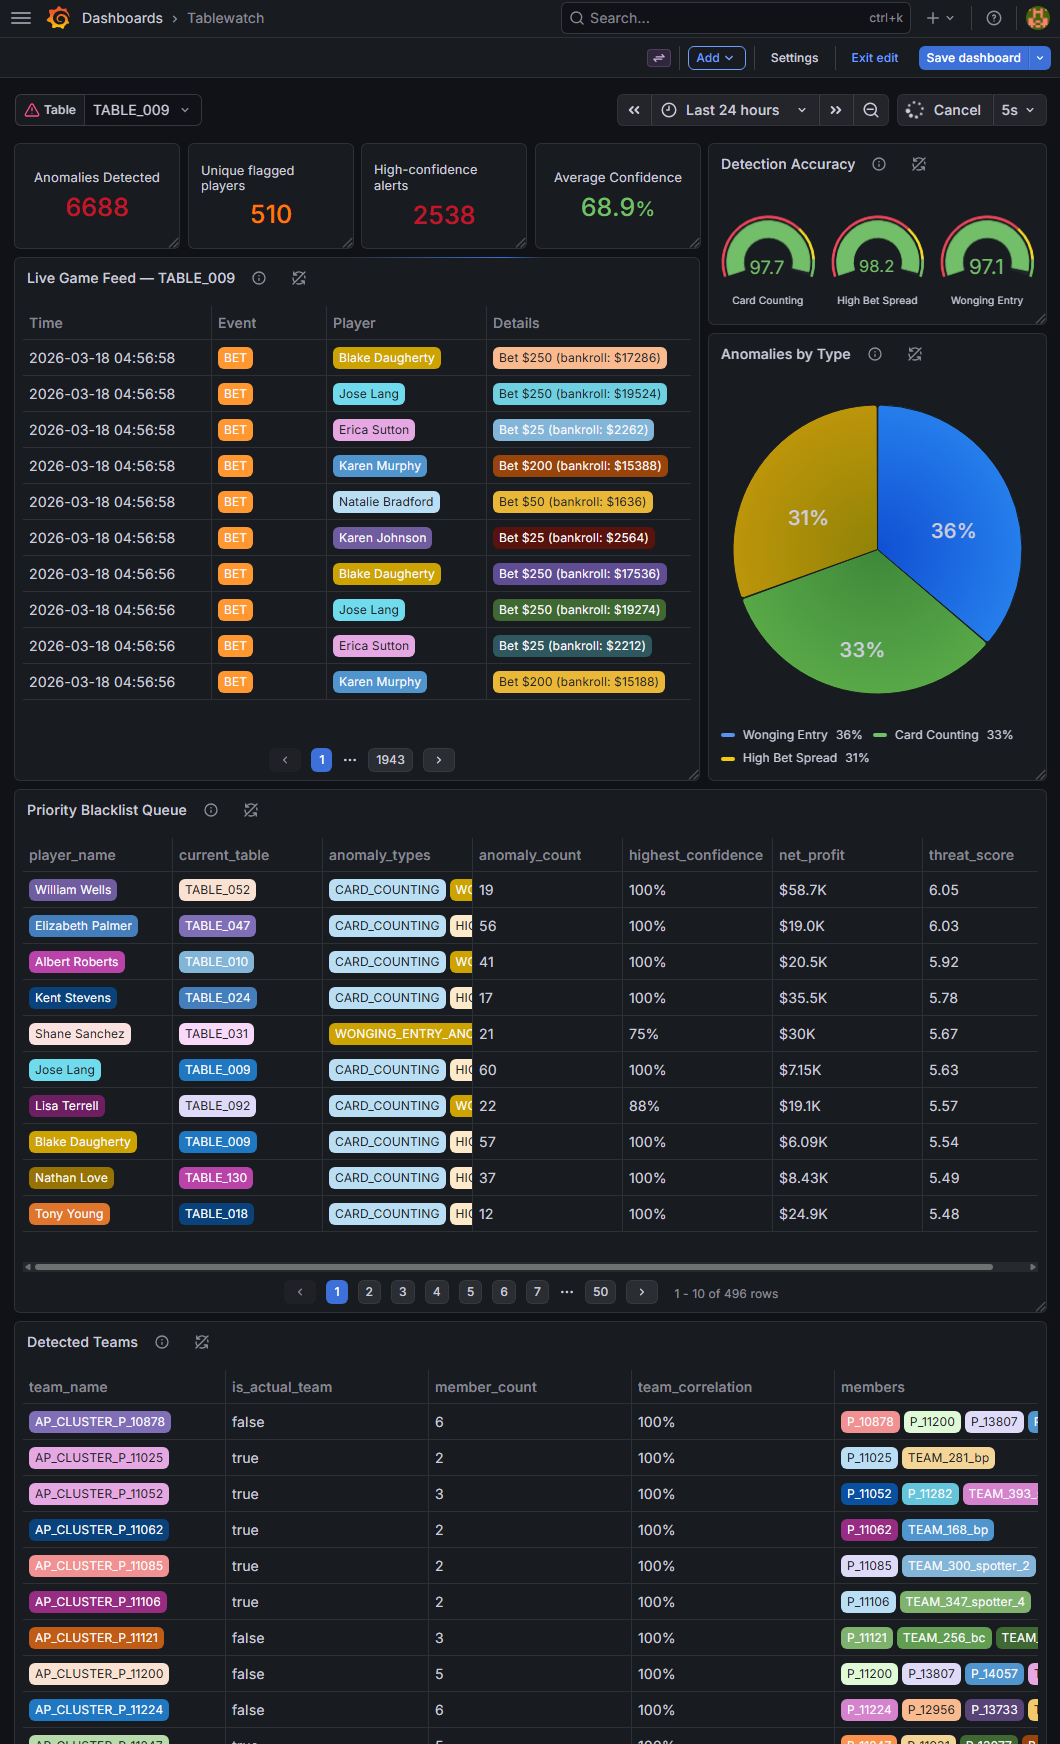
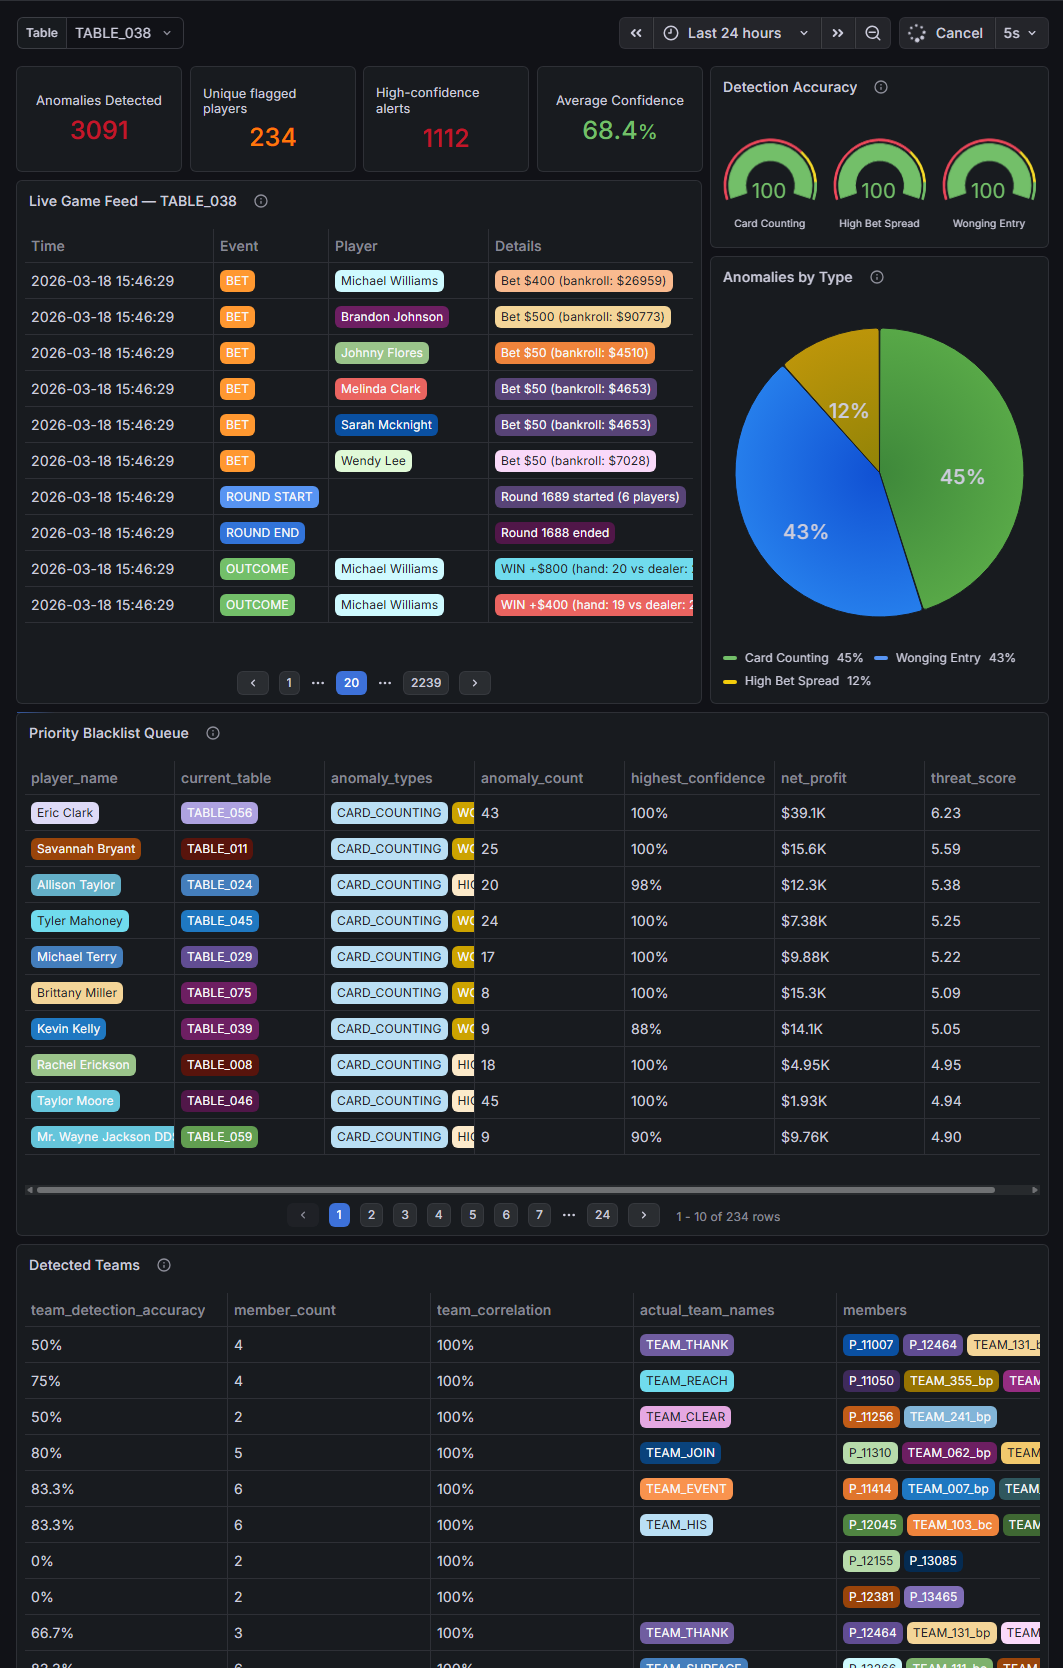
update grafana team detection and readme
updated grafana image with latest dashboard

save

diff --git a/README.md b/README.md
@@ -219,6 +219,8 @@ Individual anomaly detection catches card counters and wongers in isolation, but
 
 Because bet correlation between team members is unreliable (spotters bet flat, making their variance zero and Pearson correlation undefined), team detection instead uses **table co-presence of already-flagged players** as its signal. If two players have both been independently flagged for card counting or wonging, and they shared the same table in the same round on 10 or more occasions within the last 2 hours, they are clustered into a team. The cluster root is the lexicographically smallest player ID among all correlated pairs, ensuring each real-world team produces one stable row rather than one per pair.
 
+The algorithm however habitually groups both individual advantage players and teams together due to both discretely being flagged for Wonging and Card Counting behaviours, therefore the field team_detection_accuracy is computed based on the fraction of detected members as actual seeded team players.
+
 - Runs as a periodic Postgres job every 30 minutes rather than a Flink streaming job, since its inputs are already-computed anomalies in the database rather than raw Kafka events
 - `team_correlation` is a proxy score derived from average shared rounds (normalised to 50 rounds = 1.0) rather than a true statistical correlation, since the actual signal here is co-occurrence frequency
 - `ON CONFLICT DO UPDATE` ensures the team record is refreshed each run rather than duplicated
@@ -230,10 +232,14 @@ INSERT INTO detected_teams (
         detected_team_id,
         member_count,
         team_correlation,
+        team_detection_accuracy,
+        actual_team_ids,
+        actual_team_names,
         detected_at,
         team_name,
         player_ids
-    ) WITH flagged AS (
+    )
+WITH flagged AS (
         -- Step 1: collect all players flagged for counting or wonging in the last 2 hours
         SELECT DISTINCT player_id
         FROM player_anomalies
@@ -256,20 +262,52 @@ INSERT INTO detected_teams (
             AND g1.event_time >= NOW() - INTERVAL '2 hours'
         GROUP BY 1, 2
         HAVING COUNT(DISTINCT g1.round_id) >= 10  -- minimum 10 shared rounds to filter coincidental co-presence
+    ),
+    clusters AS (
+        -- Step 3: group pairs by their cluster root (player_1) to form multi-member teams
+        SELECT 'TEAM_' || player_1 AS detected_team_id,
+            COUNT(DISTINCT player_2) + 1 AS member_count,                          -- +1 to include the root player
+            LEAST(ROUND(AVG(shared_rounds) / 50.0, 2), 1.0) AS team_correlation,  -- co-presence score: 50 shared rounds = 1.0
+            NOW() AS detected_at,
+            'AP_CLUSTER_' || player_1 AS team_name,
+            ARRAY [player_1] || ARRAY_AGG(DISTINCT player_2) AS player_ids         -- full member list including root
+        FROM shared_tables
+        GROUP BY player_1
+    ),
+    accuracy AS (
+        -- Step 4: for each cluster, compute what fraction of detected members are actual seeded team players
+        -- and collect the real team ids/names for display
+        SELECT c.detected_team_id,
+            ROUND(
+                COUNT(p.player_id) FILTER (WHERE p.team_id IS NOT NULL)::DECIMAL
+                / NULLIF(ARRAY_LENGTH(c.player_ids, 1), 0),
+                4
+            ) AS team_detection_accuracy,                                           -- 0.0–1.0: real team members / cluster size
+            ARRAY_AGG(DISTINCT p.team_id)   FILTER (WHERE p.team_id IS NOT NULL) AS actual_team_ids,
+            ARRAY_AGG(DISTINCT p.team_name) FILTER (WHERE p.team_name IS NOT NULL) AS actual_team_names
+        FROM clusters c
+            JOIN LATERAL unnest(c.player_ids) AS pid ON true  -- expand player_ids array into one row per member
+            LEFT JOIN players p ON p.player_id = pid          -- left join so solo advantage players produce NULL team_id
+        GROUP BY c.detected_team_id, c.player_ids
     )
--- Step 3: group pairs by their cluster root (player_1) to form multi-member teams
-SELECT 'TEAM_' || player_1 AS detected_team_id,
-    COUNT(DISTINCT player_2) + 1 AS member_count,                          -- +1 to include the root player
-    LEAST(ROUND(AVG(shared_rounds) / 50.0, 2), 1.0) AS team_correlation,  -- co-presence score: 50 shared rounds = 1.0
-    NOW() AS detected_at,
-    'AP_CLUSTER_' || player_1 AS team_name,
-    ARRAY [player_1] || ARRAY_AGG(DISTINCT player_2) AS player_ids         -- full member list including root
-FROM shared_tables
-GROUP BY player_1 ON CONFLICT (detected_team_id) DO
+SELECT c.detected_team_id,
+    c.member_count,
+    c.team_correlation,
+    a.team_detection_accuracy,
+    a.actual_team_ids,
+    a.actual_team_names,
+    c.detected_at,
+    c.team_name,
+    c.player_ids
+FROM clusters c
+JOIN accuracy a ON c.detected_team_id = a.detected_team_id
 -- Refresh existing team records rather than inserting duplicates
-UPDATE
+ON CONFLICT (detected_team_id) DO UPDATE
 SET member_count = EXCLUDED.member_count,
     team_correlation = EXCLUDED.team_correlation,
+    team_detection_accuracy = EXCLUDED.team_detection_accuracy,
+    actual_team_ids = EXCLUDED.actual_team_ids,
+    actual_team_names = EXCLUDED.actual_team_names,
     detected_at = EXCLUDED.detected_at,
     player_ids = EXCLUDED.player_ids
 ```
@@ -422,7 +460,7 @@ This project is licensed under the MIT License - see the [LICENSE](LICENSE) file
 
 ## References
 
-- Z-score detection for unsupervised learning-based anomaly detection [Detect Z-score anomalies with Tinybird
+- Z-score example SQL implementation for unsupervised learning-based anomaly detection [Detect Z-score anomalies with Tinybird
 ](https://github.com/tinybirdco/use-case-real-time-anomaly-detection/blob/main/tutorials/z-score.md)
 - EcZachly's setup for PyFlink, Kafka, and build scripts [intermediate-bootcamp-4-apache-flink-training](https://github.com/DataExpert-io/data-engineer-handbook/tree/main/intermediate-bootcamp/materials/4-apache-flink-training)
 - Role descriptions and configs based on MIT Blackjack Team's real life strategies [MIT Blackjack Team](https://en.wikipedia.org/wiki/MIT_Blackjack_Team)
